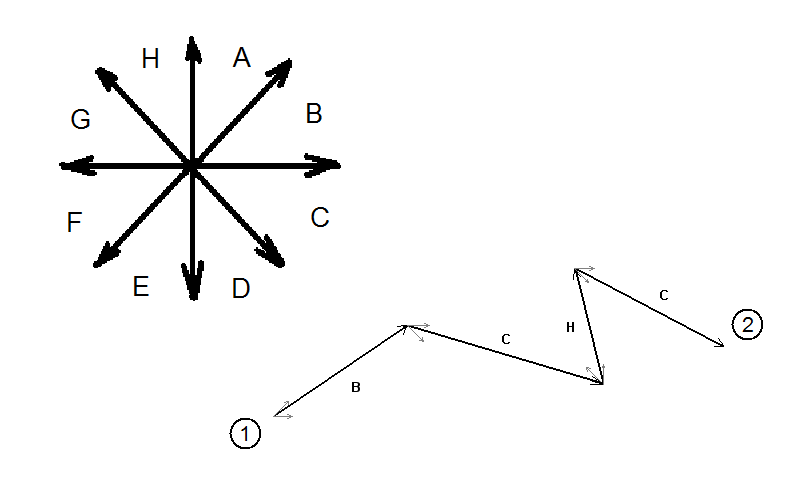
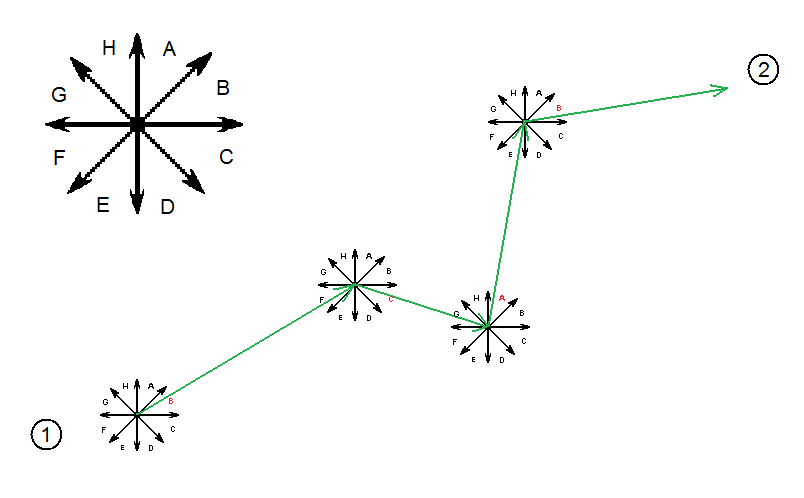
Поправлено замечание 2 Кознова --- про непонятный рисунок с хаосистской звездой. Так тоже не очень понятно, имхо, но всё же.

diff --git a/mouseGestures/article.tex b/mouseGestures/article.tex
@@ -83,12 +83,12 @@
 \subsubsection{Выделение признаков}
 Большинство существующих алгоритмов распознавания работают с векторами характеристик объектов, которые позволяют абстрагироваться от несущественных для решаемой задачи признаков, например, таких, как пространственное положение и размеры распознаваемого объекта. В нашем случае каждому жесту соответствует траектория движения курсора мыши --- список точек. Однако, использовать списки точек в качестве характеристических векторов не удаётся, так как при переносе или масштабировании жеста их координаты могут меняться довольно сильно. Мы будем рассматривать методы, предлагающие следующее решение проблемы: некоторым образом сопоставим каждому жесту строку символов (которую далее будем называть строкой-ключом) и будем сравнивать не списки точек траекторий, а соответствующие им ключи. Отметим, что закодировать жест строкой символов можно совершенно разными способами, например, рассмотреть как строку бинарное представление набора точек в пути. Наибольший интерес представляют методы построения ключа, которые сохраняют только существенную информацию о жесте, некоторые такие методы и будут рассмотрены далее.
 
-Наиболее очевидным подходом к построению ключа является отслеживание изменений ориентации сегментов ломаной, соответствующей жесту, относительно выбранной системы координат~\cite{chaosAlgorithm}. Участку жеста соответствует угол на плоскости, который попадает в один из диапазонов, а каждому из диапазонов углов ставится в соответствие символ в алфавите (см. рис.~\ref{chaos}). 
+Наиболее очевидным подходом к построению ключа является отслеживание изменений ориентации сегментов ломаной, соответствующей жесту, относительно выбранной системы координат~\cite{chaosAlgorithm}. Участку жеста соответствует угол на плоскости, который попадает в один из диапазонов, а каждому из диапазонов углов ставится в соответствие символ в алфавите (см. рис.~\ref{chaos}). На рисунке в каждой точке начала сегмента ломаной плоскость делится на 8 частей, каждой части ставится в соответствие буква алфавита. В каждой точке начала нового сегмента в ключ добавляется буква, соответствующая части плоскости, в которую этот сегмент попал.
 
 \begin{figure} [ht]
   \begin{center}
-    \includegraphics[width=0.9\textwidth, bb=0 0 804 498]{02-chaos.png}
-    \caption{Построение ключа по принадлежности направлению}
+    \includegraphics[width=1.2\textwidth, bb=0 0 804 498]{02-chaos.png}
+    \caption{Построение ключа по принадлежности направлению. Получен ключ BCAB.}
     \label{chaos}
   \end{center}
 \end{figure}
